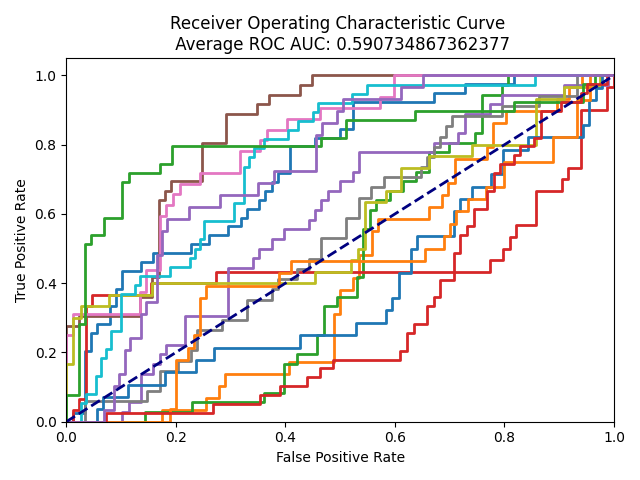
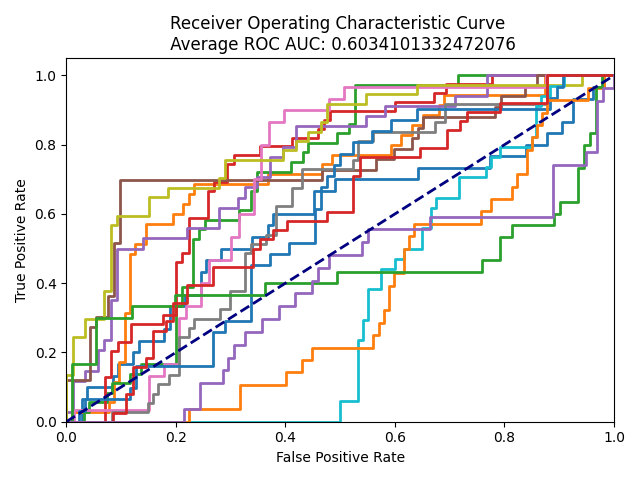
new model tests

Changed region(s): [[0.0938, 0.1562, 0.9688, 0.875], [0.25, 0.0625, 0.8125, 0.125]]

diff --git a/configs.py b/configs.py
@@ -20,9 +20,15 @@ patient_data2 = 8
 DATA_DIR = '/export/usuarios01/lmurat/Datos/Predictions-SAH/Data/'
 DIR = '/export/usuarios01/lmurat/Datos/Predictions-SAH/'
 
+# Output (Resangrado, VasoespasmoA, ANY Vasoespasmo, Hidrocefalia, Infarto, Crisis, DiasVM, DiasUCI, mRSalta, mRS1año, Exitus)
+target_output = 'VasoespasmoA'
+
 # Ro run on gpu if available
 import torch
 device = torch.device("cuda:1" if torch.cuda.is_available() else "cpu") #to run on gpu if available
+
+
+
 
 # only for test with RSNA images
 TEST_IMAGES_DIR = DATA_DIR + 'stage_2_test/'

diff --git a/main_iterations.py b/main_iterations.py
@@ -35,7 +35,7 @@ for k in range(nb_iterations):
 
     # Load model
     from model import get_model, Classifier, Classifier_Many_Layers
-    model = get_model(prob=0.5, image_backbone="se_resnext50_32x4d", pretrained = "medical", classifier=Classifier, metadata=True) #prob = prob for dropout
+    model = get_model(prob=0.5, image_backbone="se_resnext50_32x4d", pretrained = "medical", classifier=Classifier_Many_Layers, metadata=True) #prob = prob for dropout
     my_model=Model_extented(model, epochs=5, lr=1e-3)
 
     # Training

diff --git a/train.py b/train.py
@@ -305,7 +305,7 @@ class Model_extented(nn.Module):
         })
         
         y_true = df.true_label.values
-        y_pred = df.pred_label.values
+        y_pred = df.pred_label.values    
         y_conf = df.confidence.values   
 
         fig = reliability_diagram(y_true, y_pred, y_conf, num_bins=10, draw_ece=True,
